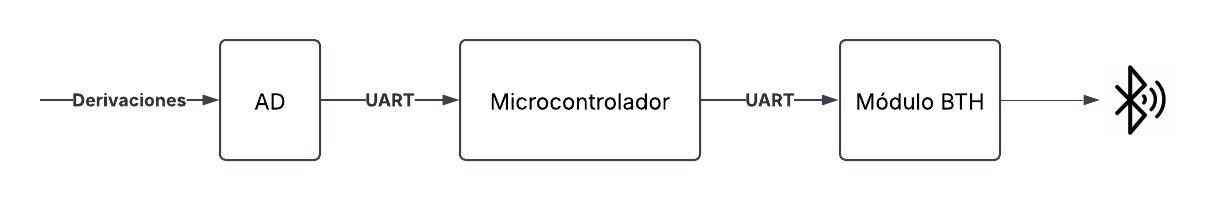
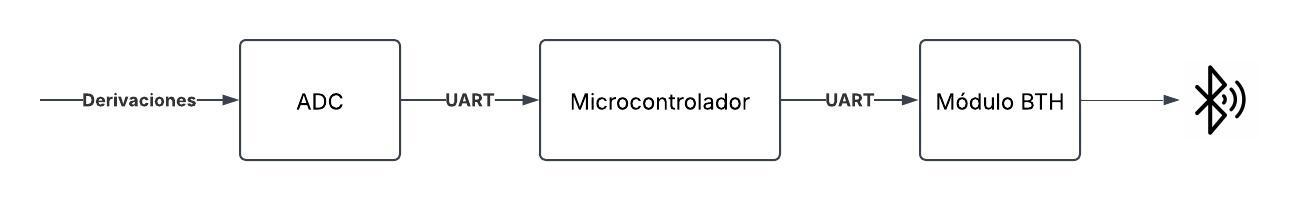
3 DAQ LISTO

diff --git a/README.md b/README.md
@@ -20,51 +20,131 @@ Desarrollo de un sistema electrónico para la adquisición de una señal ECG y u
 ### 2.6 Sistemas de Adquisición de Datos (DAQ)  
 ### 2.7 Comunicación serie UART/Bluetooth
 
-# 3. DAQ
+¡Claro! Aquí te dejo la **reestructura** de tu contenido para que sea **más legible, ordenado y técnico**, respetando la redacción y añadiendo una presentación más clara para tu documento:
 
-<img src="README/images/principiodac.jpeg" alt="Diseño DAC"/>
+---
 
-## 3.1 Componentes  
+# ⚙ 3. DAQ
 
-Electrodos: Ambiderm T715  
-Electrodo Desechable autoadheible para monitoreo cardiaco con broche redondo Ambiderm, espuma de Polietileno, redondo, diámetro 55mm
+![Diseño DAC](README/images/principiodac.jpeg)
 
-Cable de electródo DC 3.5  
-Permite transmitir las señales captadas por los electrodos al adc mediante una conexión 3.5
+---
 
-AD8232  
-Es un módulo de sensor de señal bioeléctrica diseñado para medir la actividad eléctrica del corazón mediante un electrocardiograma (ECG)
+## 🔩 3.1 Componentes
 
-Módulo Bluetooth: RN-41-FLY-477  
-El módulo RN-41-FLY-477 es un módulo Bluetooth de clase 1 diseñado para aplicaciones industriales y de bajo consumo
+### ➤ **Electrodos: Ambiderm T715**  
+Electrodos desechables autoadheribles diseñados para la adquisición de señales bioeléctricas.  
+- Fabricados en espuma de **polietileno**.  
+- Incorporan un broche de conexión metálico tipo botón que facilita su integración con cables de monitoreo.  
+- Diseño redondo de **55 mm** de diámetro.
 
-Capacitor de poliéster de  0.1 uF a 250 volts  
-Para transferir señales de un circuito a otro sin permitir que pase corriente continua, lo que permite que solo pase la señal alterna
+---
 
-## 3.2 Microcontrolador  
+### ➤ **Cable de Electrodo DC 3.5 mm**  
+Cable de transmisión de señales bioeléctricas utilizado para conectar los electrodos al módulo de acondicionamiento y conversión analógica-digital.  
+- Dispone de un conector **3.5 mm tipo jack**.  
+- Su función principal es transportar las señales captadas por los electrodos al módulo **AD8232**, minimizando el ruido en la transmisión.
 
-Raspberry Pi Pico
-Es una microcontroladora compacta basada en el chip RP2040, Cuenta con un procesador ARM Cortex-M0+ de doble núcleo, 26 pines GPIO, y soporte para interfaces como I2C, SPI, y UART. Es compatible con MicroPython y C/C++.
+---
 
-## 3.3 Fuente de alimentación  
+### ➤ **Módulo AD8232**  
+Módulo de adquisición de señales bioeléctricas especializado en la medición de la actividad eléctrica del corazón.  
+- Integra un **amplificador de instrumentación**.  
+- Incluye filtros **pasa bajos** y **pasa altos**.  
+- Sistema de rechazo de **modo común** para minimizar interferencias.  
 
-Para el correcto funcionameinto del DAQ, es necesario una fuente de alimentación de **5V**, esta se suministra mediante el **puerto USB tipo C** de la propia **Raspberry Pi Pico**. En las pruebas se alimentó directamende de un puerto USB, posteriormente de alimentó desde una powerbank.
+---
 
-## 3.4 Conexión de componentes  
+### ➤ **Módulo Bluetooth RN-41-FLY-477**  
+Módulo de comunicación inalámbrica **Bluetooth Clase 1**, ideal para transmisión de datos a larga distancia.  
+- Alcance de hasta **100 metros**.  
+- Interfaz de comunicación **UART**.  
+- Bajo consumo energético.
 
-<img src="README/images/conexionesdac.jpeg" alt="Conexiones DAQ"/>
+---
 
-## 3.5 Diseño de placa
+### ➤ **Capacitor de Poliéster 0.1 µF a 250V**  
+Componente pasivo utilizado para **acoplamiento capacitivo**.  
+- Bloquea la corriente continua (**DC**).  
+- Permite el paso de la señal alterna (**AC**), aislando diferentes etapas del sistema.  
+- Elimina **offsets** no deseados y reduce el ruido generado por la componente continua de la señal.
 
-<img src="README/images/placa.jpeg" alt="Diseño base de placa"/>
+---
 
-<img src="README/images/dac.jpeg" alt="Placa con los componentes"/>
+## 🧠 3.2 Microcontrolador
 
-## 3.6 Funcionamiento
+### ➤ **Raspberry Pi Pico**  
+La **Raspberry Pi Pico** es una placa de desarrollo compacta basada en el **microcontrolador RP2040**, diseñado por Raspberry Pi.  
+Integra un procesador **ARM Cortex-M0+ de doble núcleo**, operando a una frecuencia de hasta **133 MHz**, proporcionando un excelente balance entre rendimiento y bajo consumo energético.
 
-El módulo AD8232 obtiene la señal...
+---
 
-## 3.7 Conexión para muestra
+#### 📌 **Características principales:**
+
+- **Memoria**:  
+  - 264 KB de **SRAM**.  
+  - Soporte para hasta **16 MB** de memoria **Flash externa** mediante interfaz **QSPI**.  
+
+- **Entradas/Salidas (GPIO)**:  
+  - 26 pines **GPIO** multifunción.  
+  - 3 pines configurables como entradas analógicas para el **ADC de 12 bits**.  
+
+- **Interfaces de comunicación**:  
+  - **UART (2)**: Comunicación serial asíncrona.  
+  - **SPI (2)**: Comunicación síncrona de alta velocidad.  
+  - **I2C (2)**: Comunicación en bus compartido para múltiples dispositivos.  
+
+- **Conversores Analógico-Digital (ADC)**:  
+  - 3 canales **ADC** de **12 bits**, útiles para la adquisición de señales analógicas.
+
+---
+
+#### 📌 **Programación y compatibilidad:**  
+- Compatible con **MicroPython** y **C/C++**.  
+- Soporte en entornos de desarrollo como **Thonny**.  
+- Dispone de **SDK oficial** para C/C++, facilitando la implementación de aplicaciones en sistemas embebidos.
+
+---
+
+## 🔋 3.3 Fuente de Alimentación  
+
+Para el correcto funcionamiento del **DAQ**, es necesario suministrar una fuente de alimentación de **5V**, la cual se entrega a través del **puerto USB tipo C** de la **Raspberry Pi Pico**.
+
+✅ Durante las pruebas:  
+- Se alimentó directamente desde un puerto **USB** de PC.  
+- Posteriormente, se alimentó desde una **powerbank**, asegurando la portabilidad del sistema.
+
+---
+
+## 🔌 3.4 Conexión de Componentes  
+
+![Conexiones DAQ](README/images/conexionesdac.jpeg)
+
+---
+
+## 🖨 3.5 Diseño de Placa
+
+| **Diseño Base**                             | **Montaje de Componentes**                      |
+|---------------------------------------------|-------------------------------------------------|
+| ![Diseño base de placa](README/images/placa.jpeg) | ![Placa con los componentes](README/images/dac.jpeg) |
+
+---
+
+## ⚡ 3.6 Funcionamiento
+
+1. Los **electrodos desechables Ambiderm T715** se colocan sobre la piel del paciente según el **Triángulo de Einthoven**. Estos electrodos recogen las pequeñas variaciones de potencial generadas por la actividad eléctrica cardiaca.
+
+2. El **cable de electrodo DC 3.5 mm**, con sus tres terminaciones, se conecta de acuerdo al Triángulo de Einthoven. El cable transmite la señal desde los electrodos hacia el módulo **AD8232**.
+
+3. El módulo **AD8232** procesa la señal captada:
+   - **Filtra** la señal para eliminar el ruido de alta frecuencia.
+   - **Amplifica** la señal bioeléctrica.
+   - Reduce el ruido gracias al **capacitor de poliéster de 0.1 µF**, que realiza el acoplamiento de señal, bloqueando la corriente continua (**DC**) y permitiendo el paso de la componente alterna (**AC**).
+
+4. La señal, ya filtrada y amplificada, se envía al microcontrolador **Raspberry Pi Pico** a través del **pin GPIO 26 (A0)**.  
+   El **ADC** de la Raspberry Pi Pico convierte esta señal analógica en valores digitales de **12 bits** para su posterior procesamiento.
+
+5. Una vez digitalizada y procesada, la señal es transmitida vía **UART** a través de los pines **TX y RX**. Estos pines están conectados al módulo **Bluetooth RN-41-FLY-477**, que envía los datos de manera inalámbrica al sistema operativo receptor.
 
 ---
 
@@ -232,7 +312,7 @@ Estas librerías no requieren instalación adicional:
 
 ## 🛠 4.7 Utilidades
 
-Aquí se detallan las utilidades instaladas y configuradas para facilitar el desarrollo y la administración del entorno de trabajo.
+Herramientas para facilitar el desarrollo y la administración del entorno de trabajo.
 
 ---
 
@@ -374,7 +454,11 @@ Se usó ese valor de baudios ya que posteriormente los datos son enviados por Bl
 
 ---
 
-## 📝 5.4 Pseudocódigo
+## 🔧 5.4 Diagrama de flujo
+
+<img src="README/images/diagramaflujo.jpeg" alt="Placa con los componentes"/>
+
+## 📝 5.5 Pseudocódigo
 
 ```plaintext
 // Inicialización del hardware
